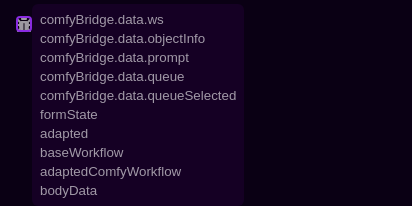
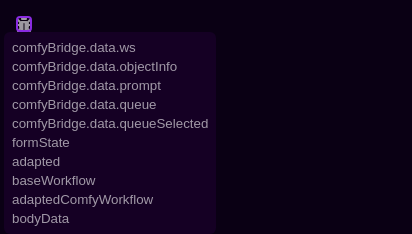
Deploy preview for PR 22 🛫

Changed region(s): [[0.0291, 0.3495, 0.5825, 0.8738], [0.0291, 0.0583, 0.4951, 0.3204], [0.0291, 0.9029, 0.233, 0.9612]]

diff --git a/pr-preview/pr-22/index.html b/pr-preview/pr-22/index.html
@@ -89,6 +89,6 @@
         <td><a href="visdiff">➡</a></td>
       </tr>
     </table>
-    <h4>Built on: 07/07/2024 22:03:16 UTC</h4>
+    <h4>Built on: 07/07/2024 22:07:05 UTC</h4>
   </body>
 </html>
